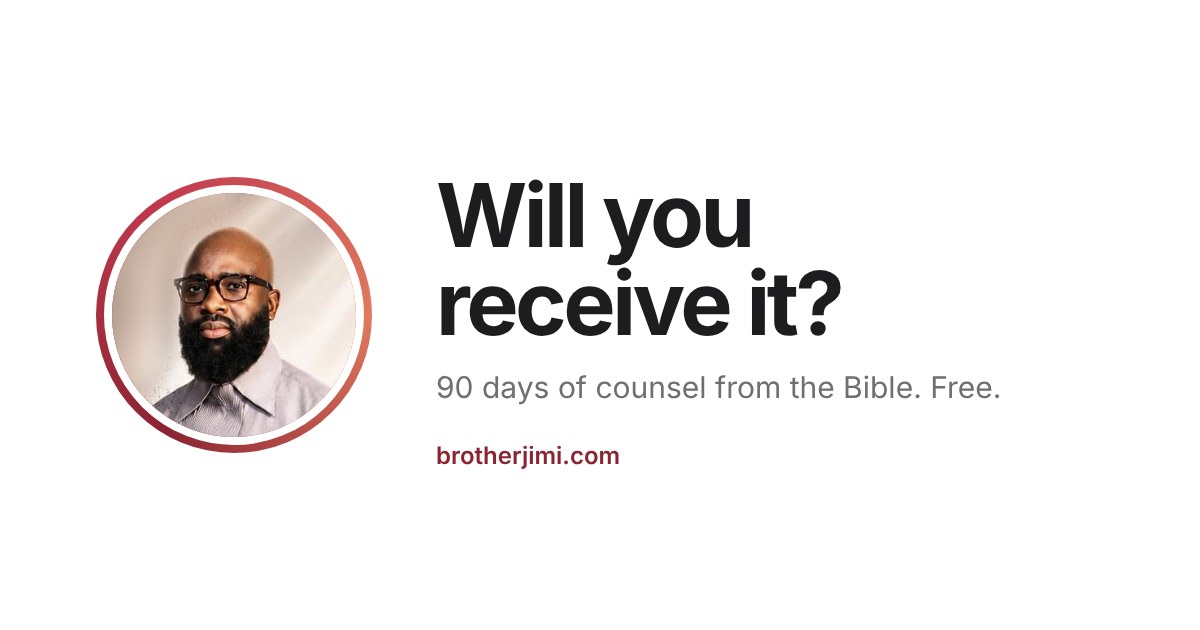
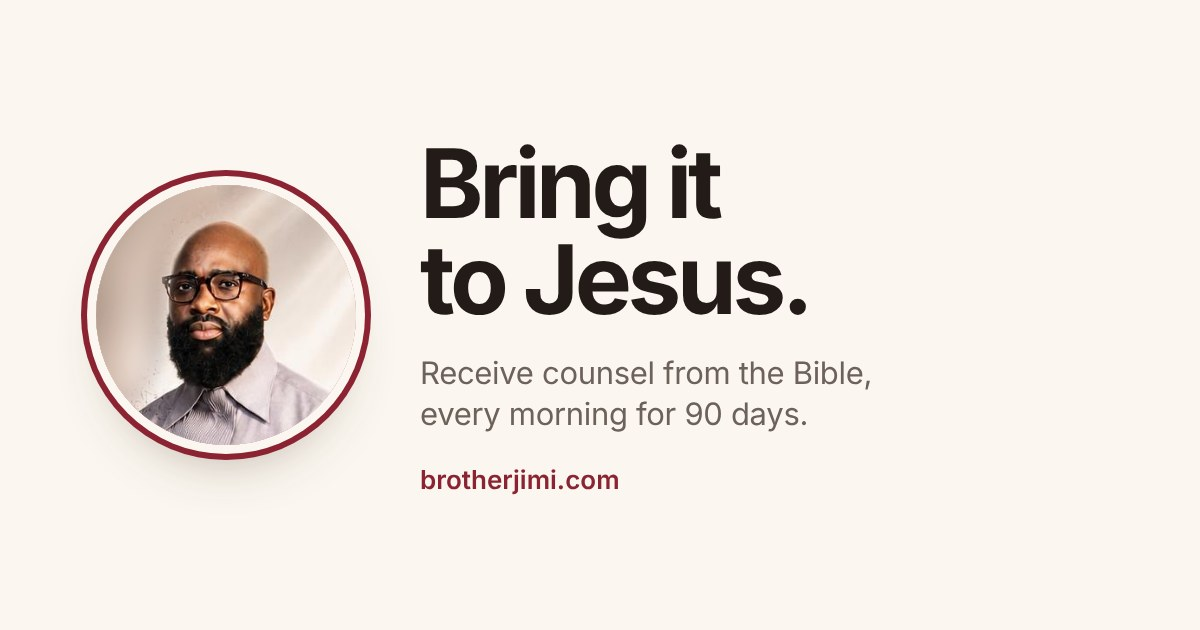
Design of 8 Oct 2026, approved by Jimi

Changed region(s): [[0.3392, 0.2111, 0.7092, 0.5429], [0.0617, 0.2714, 0.3083, 0.7841], [0.3392, 0.573, 0.8325, 0.7841]]

diff --git a/site/index.html b/site/index.html
@@ -4,11 +4,11 @@
 <meta charset="utf-8">
 <meta name="viewport" content="width=device-width, initial-scale=1, viewport-fit=cover">
 <title>Brother Jimi</title>
-<meta name="description" content="90 days of counsel from the Bible, one letter each morning. Free, from Brother Jimi.">
+<meta name="description" content="Bring it to Jesus. Receive counsel from the Bible, every morning for 90 days. Free, from Brother Jimi.">
 <meta property="og:type" content="website">
 <meta property="og:site_name" content="Brother Jimi">
-<meta property="og:title" content="Will you receive it?">
-<meta property="og:description" content="90 days of counsel from the Bible, one letter each morning. Free, from Brother Jimi.">
+<meta property="og:title" content="Bring it to Jesus.">
+<meta property="og:description" content="Bring it to Jesus. Receive counsel from the Bible, every morning for 90 days. Free, from Brother Jimi.">
 <meta property="og:url" content="https://brotherjimi.com/">
 <meta property="og:image" content="https://brotherjimi.com/images/og.jpg">
 <meta property="og:image:width" content="1200">
@@ -37,10 +37,9 @@
         <img class="fv-thumb" src="/images/jimi-avatar.jpg" alt="">
         <video playsinline preload="none" poster="/images/jimi-avatar.jpg" src="/images/jimi-intro.mp4"></video><span class="cbub-snd" aria-hidden="true"><svg viewBox="0 0 24 24" width="16" height="16"><path fill="currentColor" d="M4 9v6h4l5 4V5L8 9H4z"/><path d="M16.5 8.5a5 5 0 0 1 0 7" stroke="currentColor" stroke-width="2" fill="none" stroke-linecap="round"/></svg></span>
       </button>
-      <h1 class="big">What’s heavy on your heart?</h1>
-      <p class="lede"><span>Receive a letter of counsel from the Bible, every morning for 90&nbsp;days.</span></p>
+      <h1 class="big">Bring it to Jesus.</h1>
+      <p class="lede"><span>Receive counsel from the Bible, every morning for 90&nbsp;days.</span></p>
       <div class="bar">
-        <p>Your first letter arrives tomorrow at 6:00&nbsp;AM.</p>
         <form class="signup" data-signup novalidate>
         <label class="sr" for="email-hero">Email address</label>
         <input id="email-hero" name="email" type="email" inputmode="email" autocomplete="email" placeholder="Your email">
@@ -55,7 +54,8 @@
   <!-- The answer: Jimi's hands hold out the Book where the answers are. The highlighter plays when it comes into view. -->
   <section class="answer">
     <div class="wrap">
-      <ul class="asklist"><li style="--i:0" data-topic="forgiveness">Can I forgive the one who hurt me?</li><li style="--i:1" data-topic="faith-over-fear">Why does fear overwhelm me?</li><li style="--i:2" data-topic="your-thoughts-and-mind">Why can’t I quiet my mind?</li><li style="--i:3" data-topic="freedom-from-lust">How do I find freedom from lust?</li><li style="--i:4" data-topic="hearing-gods-voice">Is God speaking to me?</li><li style="--i:5" data-topic="your-purpose">What is my life really for?</li></ul>
+      <div class="flow-track"><div class="flow-pin">
+      <ul class="burdens" aria-label="What people bring"><li class="bcard" style="--i:0" data-topic="forgiveness">Why should I forgive them?</li><li class="bcard" style="--i:1" data-topic="faith-over-fear">Why am I always afraid?</li><li class="bcard" style="--i:2" data-topic="breaking-cycles">Why does this keep happening?</li><li class="bcard" style="--i:3" data-topic="freedom-from-lust">How do I break free from lust?</li><li class="bcard" style="--i:4" data-topic="hearing-gods-voice">Is God speaking to me?</li><li class="bcard" style="--i:5" data-topic="your-purpose">What is my life really for?</li></ul>
       <!-- Jimi's own hands holding out the Bible. The pages are re-set in exact KJV (public domain),
            open at Matthew 11. The highlighter on verse 28 ("Come unto me, all ye that labour and are heavy laden") is three
            spans drawn over the photo; it sweeps across once on load, or is simply there with reduced motion. -->
@@ -63,13 +63,14 @@
         <div class="photo"><img src="/images/bible-hero.jpg" srcset="/images/bible-hero.jpg 1672w, /images/bible-hero-2x.jpg 3344w" sizes="(max-width: 734px) 136vw, min(1120px, 100vw - 32px)" width="1672" height="941" fetchpriority="high" alt="Brother Jimi’s hands holding out an open Bible at Matthew 11, with verse 28 highlighted: Come unto me, all ye that labour and are heavy laden, and I will give you rest."><span class="hl"></span><span class="hl"></span><span class="hl"></span></div>
       </div>
       <h2 class="big answer-h">It’s all in here.</h2>
+      </div></div>
     </div>
   </section>
 
   <!-- How it reaches you: the moment of receiving at dawn. Tap the notification to read the sample letter. -->
   <section class="morning-band">
     <div class="wrap">
-      <h2 class="big">Every morning at 6:00.</h2>
+      <h2 class="big">Every morning at dawn.</h2>
       <!-- The moment of receiving: 5:59 becomes 6:00 at dawn and the letter arrives. The finished
            scene is the default; site.js plays the arrival once when motion is allowed. -->
       <div class="device" data-scene>
@@ -123,7 +124,7 @@
               <p class="commit-h">Amen.</p>
               <p class="commit-p">Who else needs this today?</p>
               <div class="commit-row"><button class="btn ghost" type="button" data-share data-share-url="/">Send this to someone</button></div>
-              <p class="commit-p commit-sep">And your first letter can be waiting tomorrow at 6:00&nbsp;AM.</p>
+              <p class="commit-p commit-sep">And your first letter can be waiting tomorrow morning.</p>
               <form class="signup" data-signup novalidate>
         <label class="sr" for="email-letter">Email address</label>
         <input id="email-letter" name="email" type="email" inputmode="email" autocomplete="email" placeholder="Your email">
@@ -154,7 +155,7 @@
       <img class="face" src="/images/jimi-avatar.jpg" alt="Brother Jimi" width="128" height="128">
       <h2 class="big">You’ll have a brother.</h2>
       <p class="lede">Reply to any letter. I read it, pray for you, and write back.</p>
-      <p class="door">Never received Jesus? <a class="door-pill" href="/start">Start here ›</a></p>
+      <p class="door">Never received Jesus? <a class="door-pill" href="/start">Receive Him ›</a></p>
     </div>
   </section>
 
@@ -176,7 +177,7 @@
   <section class="close threaded">
     <div class="wrap">
       <h2 class="big">Are you in?</h2>
-      <p class="lede">Commit to ninety mornings of counsel.<br>Your Day 1 is tomorrow.</p>
+      <p class="lede">Your Day 1 is tomorrow.</p>
       <form class="signup" data-signup novalidate>
         <label class="sr" for="email-close">Email address</label>
         <input id="email-close" name="email" type="email" inputmode="email" autocomplete="email" placeholder="Your email">

diff --git a/site/assets/styles.css b/site/assets/styles.css
@@ -736,3 +736,63 @@ body{background:var(--white)}
 .vq figure{margin:0}
 .vq blockquote{font-size:19px;line-height:1.5;color:var(--ink)}
 .vq figcaption{margin-top:8px;font-size:14px;color:var(--slate)}
+
+/* ===== Bring it to Jesus: the burdens as cards, in rows of three ===== */
+.hero2 h1.big{font-size:clamp(46px,13vw,84px)}
+.burdens{list-style:none;margin:0 auto;padding:0;max-width:720px;display:grid;grid-template-columns:repeat(3,1fr);gap:10px}
+.bcard{display:flex;align-items:center;justify-content:center;min-height:112px;padding:14px 10px;background:#fff;border-radius:14px;
+  box-shadow:0 0 0 1px var(--hair),0 14px 30px -22px rgba(60,35,20,.5);
+  font-size:14px;line-height:1.32;font-weight:500;color:var(--ink);text-align:center;text-wrap:balance}
+.bcard a{color:inherit;text-decoration:none}
+.bcard a::after{content:" ›";color:var(--wine);font-weight:600}
+@media (min-width:735px){ .burdens{gap:16px} .bcard{min-height:140px;padding:22px 20px;font-size:18px;border-radius:18px} }
+@media (prefers-reduced-motion:no-preference){
+  .bcard{opacity:0;transform:translateY(14px);transition:opacity .7s ease,transform .7s ease;transition-delay:calc(var(--i) * 120ms)}
+  .burdens.in .bcard{opacity:1;transform:none}
+}
+.answer .stage{margin-top:48px}
+.answer .photo{background:var(--white)}
+
+/* ===== The burdens: folded notes, carried into the Word ===== */
+.burdens{gap:12px}
+.bcard{position:relative;border-radius:3px;box-shadow:none;background:linear-gradient(225deg,transparent 13px,#fffdf9 13px);
+  filter:drop-shadow(0 1px 1px rgba(70,45,25,.07)) drop-shadow(0 10px 14px rgba(70,45,25,.13));
+  font-size:14.5px;font-weight:500;letter-spacing:-.01em;padding:18px 12px 16px;min-height:122px;transform:rotate(var(--r,0deg))}
+.bcard::after{content:"";position:absolute;top:0;right:0;width:18px;height:18px;border-bottom-left-radius:3px;
+  background:linear-gradient(225deg,transparent 50%,#efe6d8 50%,#f6efe4 100%)}
+.bcard:nth-child(1){--r:-1.2deg}.bcard:nth-child(2){--r:.8deg}.bcard:nth-child(3){--r:-.5deg}
+.bcard:nth-child(4){--r:1deg}.bcard:nth-child(5){--r:-.8deg}.bcard:nth-child(6){--r:1.3deg}
+@media (min-width:735px){ .bcard{font-size:18px;min-height:150px;padding:26px 22px} .bcard::after{width:22px;height:22px} .bcard{background:linear-gradient(225deg,transparent 16px,#fffdf9 16px)} }
+@media (prefers-reduced-motion:no-preference){ .burdens.in .bcard{transform:rotate(var(--r))} }
+/* flow mode (set by script only when motion is welcome) */
+.answer.flow .flow-track{height:calc(100vh + 1100px)}
+.answer.flow .flow-pin{position:sticky;top:var(--pin-top,64px)}
+.answer.flow .bcard{opacity:1;transition:none;will-change:transform,opacity}
+.answer.flow .stage{transform:none!important;opacity:var(--st,.6)!important;transition:opacity .3s linear;margin-top:40px}
+.answer.flow .hl{animation-play-state:paused!important}
+.answer.flow.absorbed .hl{animation-play-state:running!important}
+.answer.flow .hl:nth-of-type(1){animation-delay:.15s}.answer.flow .hl:nth-of-type(2){animation-delay:.53s}.answer.flow .hl:nth-of-type(3){animation-delay:.91s}
+.answer.flow .answer-h{opacity:0;transform:translateY(12px);transition:opacity .8s ease .9s,transform .8s ease .9s}
+.answer.flow.absorbed .answer-h{opacity:1;transform:none}
+/* laptops: the notes, the Word and the answer must all fit on one screen while pinned */
+@media (min-width:735px){
+  .answer.flow .bcard{min-height:108px;padding:18px 18px;font-size:16.5px}
+  .answer.flow .burdens{max-width:640px;gap:14px}
+  .answer.flow .stage{margin-top:28px}
+  .answer.flow .photo{width:min(1120px,calc(100vw - 32px),max(420px,calc((100svh - 470px) * 1.777)))}
+  .answer.flow .answer-h{margin-top:8px}
+}
+
+/* question notes: a touch smaller so each reads in about three lines on a phone */
+@media (max-width:734px){ .bcard{font-size:13.5px;padding:16px 9px 14px;min-height:108px;text-wrap:pretty} }
+
+/* ===== Notes on the same ivory paper as the Bible's pages ===== */
+.bcard{background:linear-gradient(225deg,transparent 13px,#f7efe4 13px);
+  filter:drop-shadow(0 1px 1px rgba(70,45,25,.09)) drop-shadow(0 10px 14px rgba(70,45,25,.15))}
+.bcard::after{background:linear-gradient(225deg,transparent 50%,#e4d6c3 50%,#efe4d4 100%)}
+@media (min-width:735px){ .bcard{background:linear-gradient(225deg,transparent 16px,#f7efe4 16px)} }
+
+/* ===== Breathing: Welcome gets space under its opening; the prayer box sits centred like the rest ===== */
+.open + .three{margin-top:56px}
+.asks{text-align:center}
+.ask .row{justify-content:center}

diff --git a/site/assets/site.js b/site/assets/site.js
@@ -389,6 +389,54 @@
   });
 })();
 
+/* ===== Burden cards: settle into view; a card links once its topic page is published ===== */
+(function(){
+  const box=document.querySelector(".burdens"); if(!box) return;
+  if("IntersectionObserver" in window){ const io=new IntersectionObserver(es=>{ if(es.some(e=>e.isIntersecting)){ box.classList.add("in"); io.disconnect(); } },{threshold:.2}); io.observe(box); } else box.classList.add("in");
+  fetch("/counsel/index.json",{cache:"no-cache"}).then(r=>r.ok?r.json():[]).catch(()=>[]).then(sl=>{
+    if(!Array.isArray(sl)) return;
+    box.querySelectorAll(".bcard[data-topic]").forEach(c=>{ if(sl.includes(c.dataset.topic)){ const a=document.createElement("a"); a.href="/counsel/"+c.dataset.topic; a.textContent=c.textContent; c.textContent=""; c.appendChild(a);} });
+  });
+})();
+
+/* ===== Flow: the notes are carried into the Word (scroll-linked; off for reduced motion) ===== */
+(function(){
+  const sec=document.querySelector(".answer"), track=sec&&sec.querySelector(".flow-track");
+  if(!track||matchMedia("(prefers-reduced-motion: reduce)").matches) return;
+  const pin=track.querySelector(".flow-pin"), cards=[...pin.querySelectorAll(".bcard")], st=pin.querySelector(".stage"), target=pin.querySelector(".hl:nth-of-type(2)");
+  sec.classList.add("flow");
+  let rel=[], lift=0; const hd=pin.querySelector(".answer-h"), bx=pin.querySelector(".burdens");
+  const measure=()=>{
+    const hdr=document.querySelector("header"); const h=hdr?hdr.getBoundingClientRect().height:56;
+    pin.style.setProperty("--pin-top",Math.max(h+8,Math.min((innerHeight-pin.offsetHeight)/2+h/2,innerHeight-pin.offsetHeight-84))+"px");
+    cards.forEach(c=>c.style.transform="none"); st.style.translate=""; hd.style.translate="";
+    const pr=pin.getBoundingClientRect();
+    rel=cards.map(c=>{ const r=c.getBoundingClientRect(); return [r.left+r.width/2-pr.left, r.top+r.height/2-pr.top]; });
+    lift=bx.offsetHeight*.8;
+    tick();
+  };
+  const ease=x=>x<.5?2*x*x:1-Math.pow(-2*x+2,2)/2, cl=x=>Math.max(0,Math.min(1,x));
+  const tick=()=>{
+    const r=track.getBoundingClientRect(), range=track.offsetHeight-innerHeight;
+    const p=cl(-r.top/Math.max(1,range));
+    const up=-lift*ease(cl((p-.62)/.3)); st.style.translate=`0 ${up}px`; hd.style.translate=`0 ${up}px`;
+    const pr=pin.getBoundingClientRect(), t0=target.getBoundingClientRect(), tx=t0.left+t0.width/2, ty=t0.top+t0.height/2;
+    cards.forEach((c,i)=>{
+      const o=[3,4,5,0,1,2].indexOf(i), t=ease(cl((p-(.16+o*.07))/.32));
+      const dx=tx-(pr.left+rel[i][0]), dy=ty-(pr.top+rel[i][1]);
+      c.style.zIndex=t>0?String(10+o):"";
+      const rot=getComputedStyle(c).getPropertyValue("--r")||"0deg";
+      c.style.transform=`translate(${dx*t}px,${dy*t}px) scale(${1-.82*t}) rotate(calc(${rot} * ${1-t}))`;
+      c.style.opacity=String(1-Math.pow(t,3));
+    });
+    st.style.setProperty("--st",String(.6+.4*cl((p-.1)/.5)));
+    sec.classList.toggle("absorbed",p>.88);
+  };
+  addEventListener("scroll",()=>requestAnimationFrame(tick),{passive:true});
+  addEventListener("resize",measure);
+  addEventListener("load",measure); measure();
+})();
+
 /* ===== Daily: share text, Status video and card, voice note (all from /today/today.json) ===== */
 (function(){
   const get = () => window.BJ_TODAY ? Promise.resolve(window.BJ_TODAY)

diff --git a/site/welcome/index.html b/site/welcome/index.html
@@ -4,12 +4,12 @@
 <meta charset="utf-8">
 <meta name="viewport" content="width=device-width, initial-scale=1, viewport-fit=cover">
 <title>Check your inbox · Brother Jimi</title>
-<meta name="description" content="Your first letter arrives tomorrow at 6:00 AM.">
+<meta name="description" content="Your first letter arrives tomorrow morning.">
 <meta name="robots" content="noindex">
 <meta property="og:type" content="website">
 <meta property="og:site_name" content="Brother Jimi">
 <meta property="og:title" content="Check your inbox">
-<meta property="og:description" content="Your first letter arrives tomorrow at 6:00 AM.">
+<meta property="og:description" content="Your first letter arrives tomorrow morning.">
 <meta property="og:url" content="https://brotherjimi.com/welcome">
 <meta property="og:image" content="https://brotherjimi.com/images/og.jpg">
 <meta property="og:image:width" content="1200">
@@ -35,7 +35,7 @@
     <div class="wrap">
       <p class="when">You’re in</p>
       <h1 class="mid">Check your inbox.</h1>
-      <p class="lede">Tap the link in the email to confirm. Your first letter arrives tomorrow at 6:00&nbsp;AM.</p>
+      <p class="lede">Tap the link in the email to confirm. Your first letter arrives tomorrow morning.</p>
     </div>
   </section>
 

diff --git a/site/today/index.html b/site/today/index.html
@@ -77,7 +77,6 @@
 
 
   <section class="passon threaded">
-    <div class="thread" aria-hidden="true"><i></i></div>
     <div class="wrap col">
       <h2 class="big">Who needs this today?</h2>
       <p class="lede">Send today’s counsel in one tap.</p>
@@ -87,7 +86,7 @@
   <section class="next">
     <div class="wrap">
       <h2 class="mid">A letter like this, every morning.</h2>
-      <p class="lede">Free. Starts tomorrow at 6:00&nbsp;AM.</p>
+      <p class="lede">Free. Starts tomorrow morning.</p>
       <form class="signup" data-signup novalidate>
         <label class="sr" for="email-today">Email address</label>
         <input id="email-today" name="email" type="email" inputmode="email" autocomplete="email" placeholder="Your email">

diff --git a/HANDOFF.md b/HANDOFF.md
@@ -13,12 +13,12 @@
 | Topic | Decision | Why |
 |---|---|---|
 | Purpose | A counsel and discipleship space where people who want to hear from God draw nearer to Him. | Every page and message serves this. |
-| Hero | Jimi's round intro video (`images/jimi-intro.mp4`; his photo shows until it is tapped, a soft wine ring pulses until it is played, pausing returns to the photo), then "What's heavy on your heart?", then "Receive a letter of counsel from the Bible, every morning for 90 days.", then the floating bar: "Your first letter arrives tomorrow at 6:00 AM. / From Brother Jimi." with the email box and "Start Day 1". | The visitor brings their own burden; the letter is how a brother helps with it. |
-| The answer | Next section: the reader's own six questions, in their voice, deepening in tone from pale to full ink ("Can I forgive the one who hurt me?", "Why does fear overwhelm me?", "Why can't I quiet my mind?", "How do I find freedom from lust?", "Is God speaking to me?", "What is my life really for?"), then **Jimi's hands holding out the Bible** rising gently into place, the highlighter sweeping Matthew 11:28, "Come unto me, all ye that labour and are heavy laden, and I will give you rest." (KJV, public domain; the pages are re-set exact KJV Matthew 11:1 to 12:11), which answers "What's heavy on your heart?", then "It's all in here." `bible-hero.jpg` (phones) and `bible-hero-2x.jpg` (large screens) are final: never crop, compress, retouch or replace them. | Burden first, then the Word, then the answer. |
+| Hero | One job: the invitation. Jimi's round intro video (`images/jimi-intro.mp4`; his photo shows until it is tapped, a soft wine ring pulses until it is played, pausing returns to the photo), then "Bring it to Jesus.", then "Receive counsel from the Bible, every morning for 90 days.", then the email box and "Start Day 1". Nothing else. | Undeniably about Jesus from the first second. Who Jimi is, when letters arrive and the reader's part each live in their own section below. |
+| The answer | Next section: the reader's own six questions as folded ivory notes in two rows of three ("Why should I forgive them?", "Why am I always afraid?", "Why does this keep happening?", "How do I break free from lust?", "Is God speaking to me?", "What is my life really for?"). As the reader scrolls, the notes and the Bible stay on screen while the notes are carried one by one into **Jimi's hands holding out the Bible** and come to rest on Matthew 11:28, "Come unto me, all ye that labour and are heavy laden, and I will give you rest." (KJV, public domain; the pages are re-set exact KJV Matthew 11:1 to 12:11). The Bible rises into their place, the highlighter sweeps verse 28, then "It's all in here." With reduced motion the notes simply sit above the Bible. `bible-hero.jpg` (phones) and `bible-hero-2x.jpg` (large screens) are final: never crop, compress, retouch or replace them. | Bring it to Jesus, shown rather than told: the burdens go into His Word. |
 | "Receive Jesus" | Lives on its own page, /start. Never above the signup form. | Subscribing is not salvation. Believers who want to go deeper must also feel invited. |
 | Source wording | "Counsel from Scripture", never "counsel from Jesus". | A message about Scripture is a brother's counsel, not God's voice. |
 | Daily content | One short letter each morning from Version C of /teach, written like a mentor typing to one person, with its proof text. | The homepage shows a real letter, set as a letter at reading size. |
-| Homepage letter | Fixed sample: "The wall between you and God" (the title names God so the tone is set at once; the letter's closing line echoes it). Tapping the notification grows it into the full letter, labelled "Sample letter · 90 Days of Counsel"; Close shrinks it back. At the end, "I'll do this today" reveals "Amen. Who else needs this today?" with **Send this to someone**, then "And your first letter can be waiting tomorrow at 6:00 AM." with the email box. It never changes daily. | People share at the moment the letter lands, and the moment of commitment is also the moment of signup. |
+| Homepage letter | Fixed sample: "The wall between you and God" (the title names God so the tone is set at once; the letter's closing line echoes it). Tapping the notification grows it into the full letter, labelled "Sample letter · 90 Days of Counsel"; Close shrinks it back. At the end, "I'll do this today" reveals "Amen. Who else needs this today?" with **Send this to someone**, then "And your first letter can be waiting tomorrow morning." with the email box. It never changes daily. | People share at the moment the letter lands, and the moment of commitment is also the moment of signup. |
 | Today in the dock | The dock's first item is Jimi's face with "Today". When there is a video for the day (`/today/today.json`), the face gets a wine story ring and tapping it plays his short round video (progress ring around it), with the date, today's title and line, **Read today's letter** and **Send to someone**. With no video it simply goes to /today. | One object does two jobs: navigation and the daily face that builds trust. |
 | Sharing | One-tap rows (WhatsApp · Facebook · X · Telegram · Copy link · More…) on the homepage ("Pass it on.") and on /today (top and after the letter). Tapping WhatsApp opens three choices: Send to a chat, Post today's video to your Status, Post today's card to your Status (the last two appear only when `today.json` has them). The text uses today's line: "This morning's letter from Brother Jimi: “{line}” Start your 90 mornings:" plus the link with `?ref=share`. Each day's letter has its own permanent page `/today/YYYY-MM-DD`. | Remove every step between "this helped me" and "I sent it". |
 | Stages | **Internal only.** Readers never see stages or phases. The team groups readers by engagement. | Avoids a self-help feel. Growth is God's work. The team watches and responds. |
@@ -34,7 +34,7 @@
 - **Signature:** pending. Jimi may supply his real handwritten signature later; that is a design change he must approve. Until then the sign-off is typed.
 - **Icon / favicon:** Jimi's face, circle-cropped (`/images/favicon.png`, `/images/apple-touch-icon.png`).
 - **Navigation:** the top bar shows Jimi's face and "Brother Jimi" on the left (links home) and "Today's Counsel" on the right (frosted glass, sticky), so video viewers reach today's message from the first screen. All moving around happens in **the dock**: one floating dark-glass bar at the bottom centre of every page with Jimi's face + "Today", "Home", "Receive Jesus" (links to /start) and a wine "Start Day 1" pill. Under 400px wide, "Home" is hidden (the top bar links home). The current page is highlighted. On the homepage the dock rises into view only once the hero signup bar has scrolled away.
-- **Colours:** warm "morning paper": paper `#fbf7f0`, band `#f3ece1`, ink `#231b17`, slate `#6d625b`, wine `#8b2332`. Letters sit on white. The 6:00 band runs from night to dawn.
+- **Colours:** warm "morning paper": paper `#fbf7f0`, band `#f3ece1`, ink `#231b17`, slate `#6d625b`, wine `#8b2332`. Letters sit on white. The dawn band runs from night to dawn.
 - **Jimi's photo** (`jimi-avatar.jpg`, circle-cropped, facing the camera, not mirrored) is used only
   where a person is speaking: the email sender avatar and the "Brother Jimi" byline under each letter's title.
 
@@ -42,7 +42,7 @@
 
 | Route | Contents |
 |---|---|
-| `/` | No connector lines between sections; only the question and "Are you in?" are set at full headline size. (1) **The question** (hero). (2) **The answer**: the six questions, the Bible in Jimi's hands, "It's all in here." (3) **How it reaches you**, dawn band: "Every morning at 6:00." and the phone: 5:59 turns 6:00 and the notification arrives; a soft tap ripple shows it opens; tapping it opens the sample letter "The wall between you and God", with "I'll do this today" → Amen, share, signup. (4) **"Ninety mornings."** / "Read it. Do what it says.", 90 dots (Day 1 in wine, the rest fill in pale rose as you scroll). (5) **"You'll have a brother."** / "Reply to any letter. I read it, pray for you, and write back.", and the button "Never received Jesus? Start here ›". (6) **"Pass it on."** as one row of round icons: WhatsApp (wine; opens chat / Status choices), Facebook, X, Telegram, copy link, more. A hidden "From readers" section (`voices.json`) sits before it. (7) **"Are you in?"** / "Commit to ninety mornings of counsel. Your Day 1 is tomorrow." and the signup. No counter. |
+| `/` | No connector lines between sections; only "Bring it to Jesus." is set at full headline size. (1) **The invitation** (hero). (2) **The answer**: the six question notes carried into the Bible in Jimi's hands, "It's all in here." (3) **How it reaches you**, dawn band: "Every morning at dawn." and the phone: 5:59 turns 6:00 and the notification arrives; a soft tap ripple shows it opens; tapping it opens the sample letter "The wall between you and God", with "I'll do this today" → Amen, share, signup. (4) **"Ninety mornings."** / "Read it. Do what it says.", 90 dots (Day 1 in wine, the rest fill in pale rose as you scroll). (5) **"You'll have a brother."** / "Reply to any letter. I read it, pray for you, and write back.", and the button "Never received Jesus? Receive Him ›". (6) **"Pass it on."** as one row of round icons: WhatsApp (wine; opens chat / Status choices), Facebook, X, Telegram, copy link, more. A hidden "From readers" section (`voices.json`) sits before it. (7) **"Are you in?"** / "Your Day 1 is tomorrow." and the signup. No counter. |
 | `/today` | **Dynamic:** the share row, "Today's Counsel · {date}", the letter **shown as a real email** (subject, sender row, "Listen to Jimi read it" when there is a voice note, the text, verse, sign-off, P.S., Reply and Forward), "Who needs this today?" with the share row, then "A letter like this, every morning." and the signup. Jimi's round video for the day sits above when there is one. |
 | `/start` | One message per screen, on one path down to the prayer. First screen: "Receive Jesus." / "It's the most important decision you'll ever make." (nothing else). Then four truths, each alone on its own screen with only its reference as a small wine pill; tapping the pill opens the verse (NIV) beneath it: read as one story: "God loves you." (John 3:16) / "But sin keeps you from Him." (Romans 3:23) / "So Jesus paid the price." (1 Peter 3:18) / "Now receive Him by faith." (John 1:12, "to all who did receive him… he gave the right to become children of God", which leads to "Welcome to the family"). Each truth rises gently into view as you scroll (none with reduced motion). A thin wine line with a dot at each truth joins them and runs into the prayer, set in white on the dawn band, with Romans 10:9 as a pill beneath it (declare "Jesus is Lord", believe God raised him from the dead). Then "Did you pray this today? / Tell me. I'd love to welcome you to the family of God." with email and "I prayed today". Tag these signups `received` and notify Jimi immediately. **Have a pastor review the wording before launch.** |
 | `/welcome?received` | Shown only after "I prayed today" on /start. "Welcome to the family." plus a letter from Jimi ("Before your first letter"), which is also sent immediately as their first email. Jimi's direct address is jimi@brotherjimi.com (set up this mailbox before launch). |
@@ -208,3 +208,12 @@ Launch in English only. Prepare now so a second language is a content task, not 
 - Every letter is translated by a fluent, believing human and approved by Jimi before it sends. Machine translation may be used for a first draft only.
 - Choose the first extra language from data: visitor countries and browser languages in analytics, plus replies asking for it.
 - Do not add a translate widget; it breaks the design and mistranslates Scripture.
+
+---
+
+## Wording rule (8 Oct 2026)
+
+The site never promises a clock time ("6:00 AM"): letters can be late and readers live in every time
+zone. Say "at dawn" or "tomorrow morning". The send time itself stays 6:00 AM. The phone picture
+(5:59 turning 6:00) and the sample letter's timestamp are illustrations and stay as they are.
+Link previews (og:title, description, `images/og.jpg`) say "Bring it to Jesus."

diff --git a/UPDATE.md b/UPDATE.md
@@ -1,25 +1,27 @@
-# UPDATE.md: install the design approved by Jimi on 7 October 2026
+# UPDATE.md: install the design approved by Jimi on 8 October 2026
 
-This replaces the whole front end. What's new:
-- **Home:** Jimi's intro video and "What's heavy on your heart?", the reader's six questions, his
-  hands holding the Bible (now open at Matthew 11, verse 28 highlighted) with "It's all in here.", the 6:00 letter, ninety mornings, "You'll have a
-  brother." with "My story", "Pass it on." and "Are you in?". Warm "morning paper" colours.
-- **Sharing:** one-tap rows (WhatsApp opens: send to a chat, post today's video to Status, post
-  today's card to Status) on Home and Today.
-- **Today:** a "Listen to Jimi read it" voice note player (shown only when there is one).
-- **Receive Jesus:** "So Jesus paid the price." now uses 1 Peter 3:18; "Tell me. I'd love to welcome
-  you to the family of God."
-- **Welcome pages:** "Who came to mind?"; one voice ("I") throughout.
-- **Home, calmer:** quiet questions (each becomes a link once its topic page exists), no lines between
-  sections, an icon share row, and a hidden "From readers" section (see CLAUDE.md 3b).
-- **Daily data:** `today.json` gains `statusVideo` and `voice`; `startedThisMonth` is gone.
+This replaces the whole front end. What's new since the 7 October package:
+- **Hero:** "Bring it to Jesus." / "Receive counsel from the Bible, every morning for 90 days." and
+  the signup. Nothing else.
+- **The answer:** the six questions are now folded notes; as you scroll they are carried into Jimi's
+  hands holding the Bible and land on Matthew 11:28, then "It's all in here." New questions and
+  slugs (CLAUDE.md 3b): `breaking-cycles` replaces `your-thoughts-and-mind`.
+- **Breathing:** more space under Welcome's opening; the prayer request box is centred; no stray
+  line above "Who needs this today?" on Today.
+- **No clock times in the wording:** "Every morning at dawn.", "tomorrow morning" (the send time
+  stays 6:00 AM).
+- **"Ninety mornings." / "Read it. Do what it says."**, "Never received Jesus? Receive Him ›",
+  "Are you in? / Your Day 1 is tomorrow."
+- **Link previews:** new `images/og.jpg` and descriptions: "Bring it to Jesus."
+Everything else (sharing, Today, Receive Jesus, Welcome, Partner, daily data) is as in the 7 October
+package.
 
 Do these steps once, in order, exactly as written. Change, merge or "adapt" nothing. If a step
 doesn't fit how the project is set up, **stop and ask Jimi**.
 
 ## Step 1. Save the current state
 `git status`. Commit any uncommitted work first (including today's daily fill):
-`Before 7 Oct design`.
+`Before 8 Oct design`.
 Note today's letter: the inner content of the `data-slot` elements in `site/today/index.html`, and
 `site/today/today.json`. You will put them back in Step 3.
 
@@ -43,10 +45,11 @@ Note today's letter: the inner content of the `data-slot` elements in `site/toda
    Run it on the `public/` copy too.
 2. `/images/jimi-intro.mp4`, `/images/bible-hero.jpg`, `/images/bible-hero-2x.jpg`,
    `/today/today.json`, `/voices.json` return 200 (`/counsel/index.json` may be 404 until a topic page exists; that is fine). No page scrolls sideways at 320px.
-3. Screenshots at 390px for Jimi: the top of `/`; the six questions and "It's all in here.";
+3. Screenshots at 390px for Jimi: the top of `/`; the six notes, then mid-scroll as they go into the
+   Bible, then "It's all in here."; the same at 1366×768 (everything must fit on screen);
    "Are you in?"; `/today` with the WhatsApp choices open; `/welcome`.
 4. On `/`: tapping the video circle plays Jimi with sound; pausing shows his photo again. The
-   6:00 notification opens the sample letter. The email forms still post to `/api/subscribe`.
+   phone notification opens the sample letter. The email forms still post to `/api/subscribe`.
 5. Local test only: put any short MP4 in `statusVideo`, any image in `card` and any `.m4a` in
    `voice` in a local copy of `today.json`. The two Status choices and the voice player appear.
    Then put `today.json` back.
@@ -54,7 +57,7 @@ Note today's letter: the inner content of the `data-slot` elements in `site/toda
 
 ## Step 5. Go live
 On Jimi's yes in this session: delete any test scripts you created, commit
-(`Design of 7 Oct 2026, approved by Jimi`), push and deploy the way the site is already deployed.
+(`Design of 8 Oct 2026, approved by Jimi`), push and deploy the way the site is already deployed.
 
 ## Step 6. From tomorrow
 The daily fill now also makes the Status video and saves the voice note (CLAUDE.md section 3.3),

diff --git a/after-launch/CLAUDE.md b/after-launch/CLAUDE.md
@@ -34,11 +34,11 @@ Jimi exactly what changed.
 - One typeface on every device: Inter, self-hosted (`site/assets/fonts`). No other fonts.
 - Less is more: one idea per section, generous spacing, short lines. Never add scripts,
   analytics, cookie bars, chat or translate widgets, pop-ups, frameworks or minifiers.
-- The homepage story is fixed, in this order: Jimi's intro video and the question "What's heavy on
-  your heart?" → the reader's own six questions → Jimi's hands holding the Bible (highlighter on
-  Matthew 11:28) with "It's all in here." → how it arrives (dawn band, the phone at 6:00, the sample
-  letter) → "Ninety mornings." → "You'll have a brother." → "Pass it on." →
-  "Are you in? / Commit to ninety mornings of counsel." Don't add, remove or reorder sections
+- The homepage story is fixed, in this order: Jimi's intro video and "Bring it to Jesus." (the hero
+  does only this) → the reader's six questions as notes, carried into Jimi's hands holding the Bible
+  (highlighter on Matthew 11:28) → "It's all in here." → "Every morning at dawn." (the phone and the
+  sample letter) → "Ninety mornings. / Read it. Do what it says." → "You'll have a brother." →
+  "Pass it on." → "Are you in? / Your Day 1 is tomorrow." Never promise a clock time in the wording. Don't add, remove or reorder sections
   without Jimi.
 - The hero photo is Jimi's own hands. Never crop, compress, retouch or replace
   `images/bible-hero.jpg` or `images/bible-hero-2x.jpg`.

diff --git a/CLAUDE.md b/CLAUDE.md
@@ -108,9 +108,9 @@ the approved design. It fails if **one character** changes outside the allowed s
      reworded), first name and city only or "A reader". Only Jimi decides which ones. While it is `[]`
      the section stays hidden. That is correct.
    - `site/counsel/index.json` lists the topic pages that are published, e.g. `["forgiveness"]`. The
-     six homepage questions link to `/counsel/<slug>` only when their slug is listed (slugs:
-     forgiveness, hearing-gods-voice, faith-over-fear, your-thoughts-and-mind, your-purpose,
-     freedom-from-lust). Topic pages need a design Jimi approves first (section 6). Never list a
+     six homepage questions link to `/counsel/<slug>` only when their slug is listed (slugs, in
+     order: forgiveness, faith-over-fear, breaking-cycles, freedom-from-lust, hearing-gods-voice,
+     your-purpose). Topic pages need a design Jimi approves first (section 6). Never list a
      page that doesn't exist.
 4. **Hosting, `/privacy`, sitemap, redirects:** propose how, wait for Jimi's go.
    `/privacy` copies an existing page's `<head>`, header and footer exactly, with plain text
